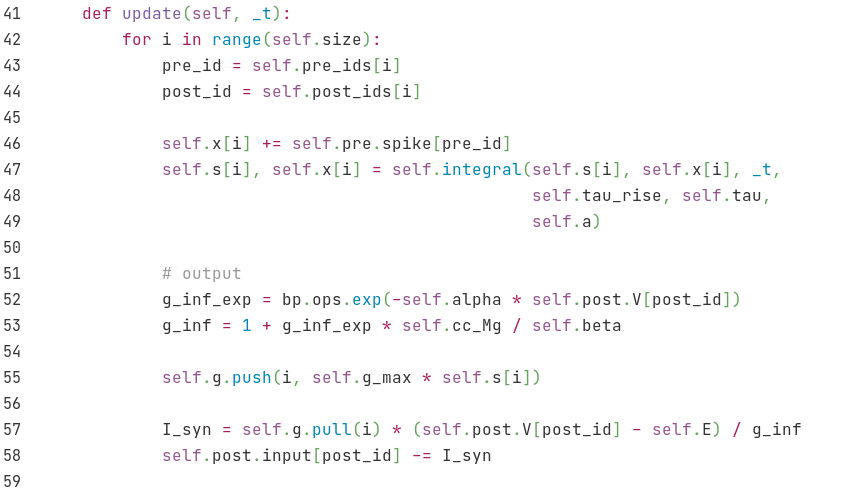
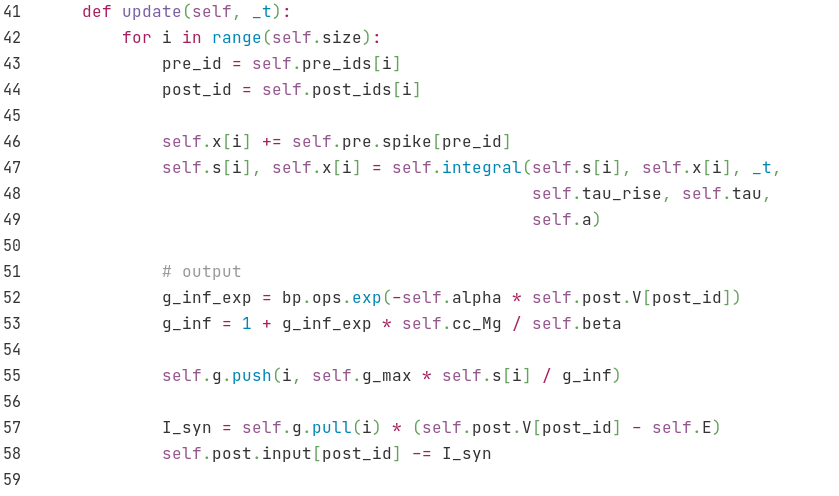
modify nmda code for handbook

diff --git a/docs/brainpy_handbook/ppt/codes/syns/nmda.py b/docs/brainpy_handbook/ppt/codes/syns/nmda.py
@@ -52,9 +52,9 @@ class NMDA(bp.TwoEndConn):
             g_inf_exp = bp.ops.exp(-self.alpha * self.post.V[post_id])
             g_inf = 1 + g_inf_exp * self.cc_Mg / self.beta
 
-            self.g.push(i, self.g_max * self.s[i])
+            self.g.push(i, self.g_max * self.s[i] / g_inf)
 
-            I_syn = self.g.pull(i) * (self.post.V[post_id] - self.E) / g_inf
+            I_syn = self.g.pull(i) * (self.post.V[post_id] - self.E)
             self.post.input[post_id] -= I_syn
 
 
